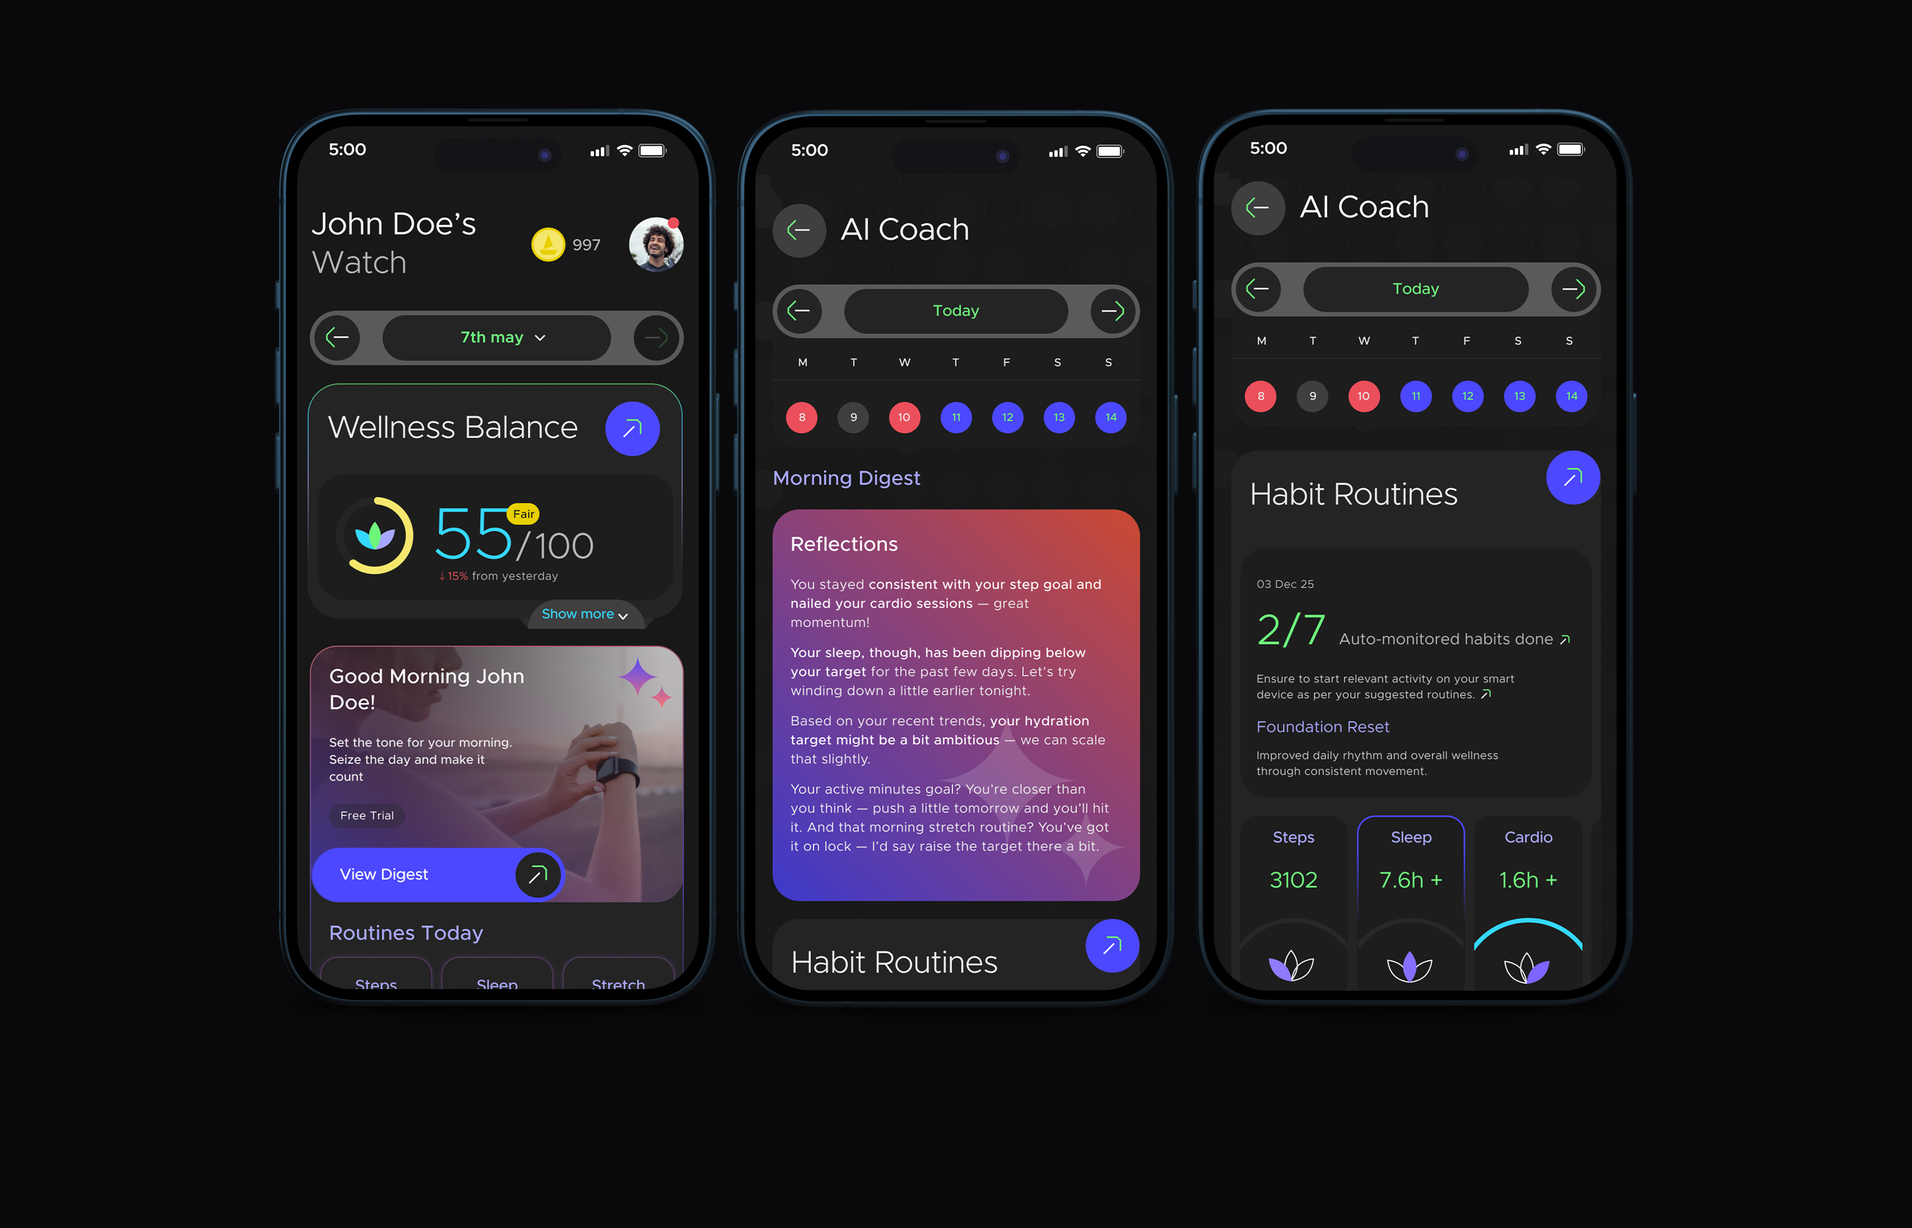
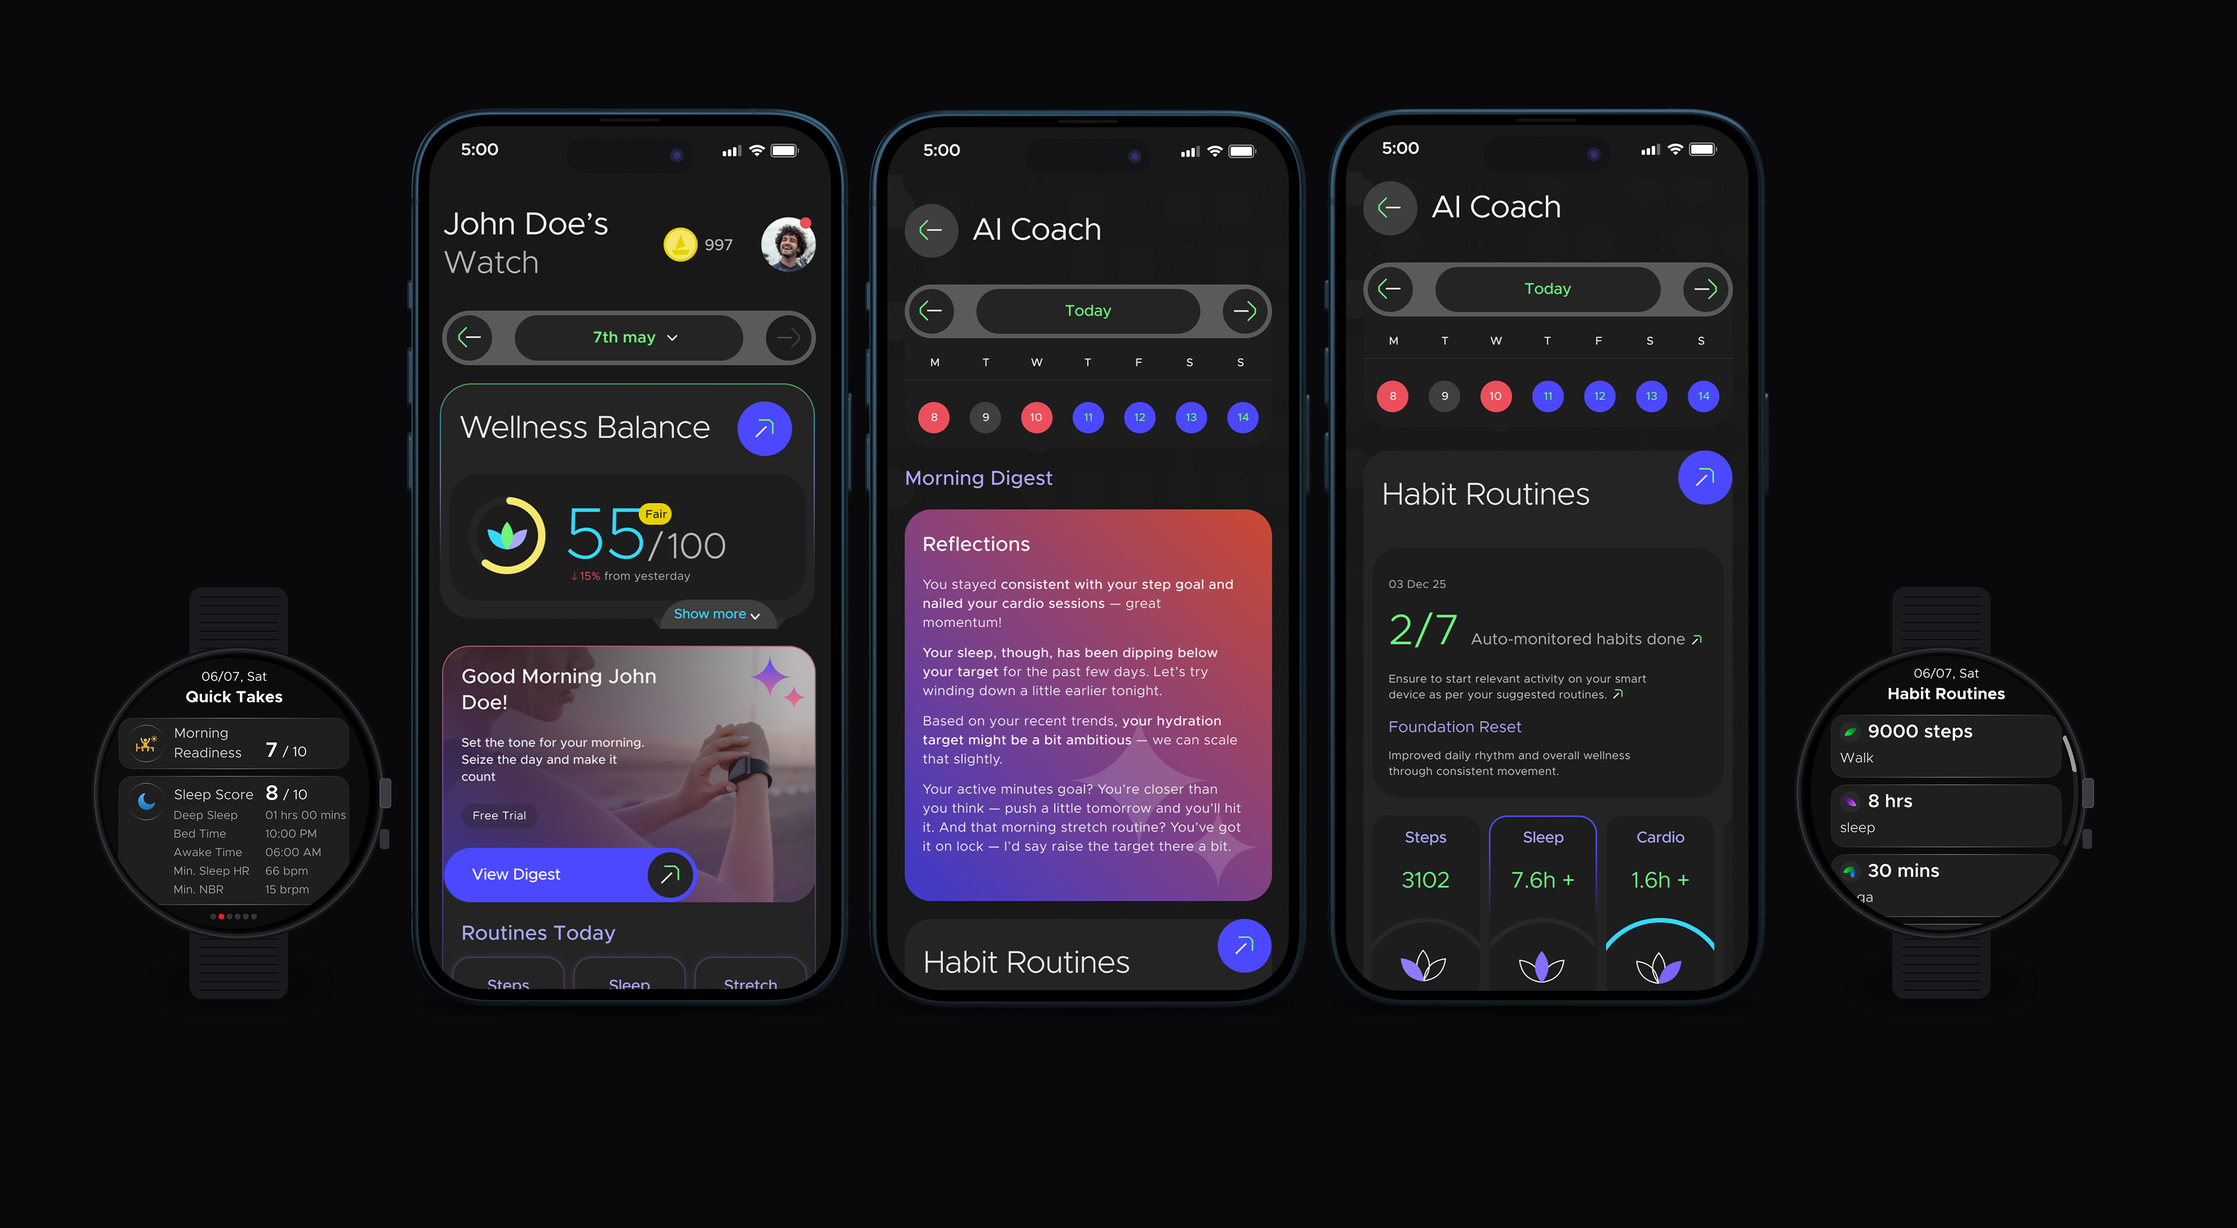
second commit

diff --git a/ai-coach.html b/ai-coach.html
@@ -1,9 +1,9 @@
 <!DOCTYPE html><html lang="en"><head><meta charset="UTF-8"><meta name="viewport" content="width=device-width,initial-scale=1"><title>AI Coach — Kamalika Bhattacharjee</title><link rel="stylesheet" href="styles.css"></head><body>
 <header class="nav"><a class="brand" href="index.html">KAMALIKA<span>.</span></a><nav><a href="index.html#work">Work</a><a href="index.html#about">About</a></nav></header><main>
-<section class="case-hero section"><div class="eyebrow">CASE STUDY · 01 · AI COACH · LIVE</div><h1>Helping users understand their wellness and <em>take action.</em></h1><p class="lead">AI Coach uses data from the wearable to give users simple guidance, habits and fitness plans.</p><div class="meta-grid"><div><span>ROLE</span><b>Product Designer<br>UX / UI · Interaction · Prototyping · QA</b></div><div><span>PLATFORM</span><b>Mobile App + Smartwatch</b></div><div><span>SCOPE</span><b>End-to-end feature experience</b></div><div><span>STATUS</span><b>Live</b></div></div></section>
+<section class="case-hero section"><div class="eyebrow">CASE STUDY · 01 · AI COACH · LIVE</div><h1>A personal coach built around your wearable data</h1><p class="lead">AI Coach uses data from the wearable to give users simple guidance, habits and fitness plans.</p><div class="meta-grid"><div><span>ROLE</span><b>Product Designer<br>UX / UI · Interaction · Prototyping · QA</b></div><div><span>PLATFORM</span><b>Mobile App + Smartwatch</b></div><div><span>SCOPE</span><b>End-to-end feature experience</b></div><div><span>STATUS</span><b>Live</b></div></div></section>
 <section class="case-image section"><img src="assets/ai-coach-case-hero.png" alt="AI Coach app screens — Morning Digest, Habit Routines, Wellness Balance and Wellness Score"></section>
 <section class="section narrative"><div class="label">01 · THE OPPORTUNITY</div><h2>Fitness Plans were useful, but they were not for everyone.</h2><p>We wanted to make the experience more personal and easier to start. Some users have a clear fitness goal. Others want to build better everyday habits.</p><p>So the experience was built around two simple ways to start:</p><div class="two-col big-cards"><div class="dark-card"><small>GOAL-BASED</small><h3>Fitness Plans</h3><p>For users who have a clear goal, such as getting fit, losing weight or training for a run.</p></div><div class="dark-card"><small>HABIT-BASED</small><h3>Habit Routines</h3><p>For users who want to build habits like sleeping better, moving more or reducing stress.</p></div></div></section>
-<section class="section"><div class="label">02 · THE BASIC IDEA</div><h2>Use the data to help users decide what to do next.</h2><p class="lead-small">The experience connects wearable data to a simple daily action.</p><div class="system-flow"><div><b>Wearable data</b><span>Steps · sleep · activity · vitals</span></div><i>→</i><div><b>Wellness Balance</b><span>Movement · Vitals · Restore</span></div><i>→</i><div><b>AI Coach</b><span>Guidance and reflections</span></div><i>→</i><div><b>Action</b><span>Habits · fitness plans</span></div></div></section>
+<section class="section"><div class="label">02 · THE BASIC IDEA</div><h2>Use the data to help users decide what to do next.</h2><p class="lead-small">The experience connects wearable data to a simple daily action.</p><div class="system-flow"><div><b>Wearable data</b><span>Steps · Sleep · Activity · Vitals</span></div><i>→</i><div><b>Wellness Balance</b><span>Movement · Vitals · Restore</span></div><i>→</i><div><b>AI Coach</b><span>Guidance and Reflections</span></div><i>→</i><div><b>Action</b><span>Habits · fitness plans</span></div></div></section>
 <section class="section"><div class="label">03 · HOW THE DESIGN CHANGED</div><h2>The feature changed as we worked through different ideas.</h2><p>We explored different ways to bring wellness guidance, routines, reflections and fitness plans together. The final version has a clearer entry point and a more structured daily experience.</p><div class="iteration-grid"><div><span>EARLY DIRECTION</span><img src="assets/ai-coach-iteration-early.png" alt="Early AI Coach direction"><b>Daily Wellness Coach</b><p>Explored daily guidance, Wellness Balance and “Ask Your Coach”.</p></div><div><span>MIDDLE DIRECTION</span><img src="assets/ai-coach-iteration-middle.png" alt="Middle AI Coach direction"><b>Habits and guidance</b><p>Added routines, reflections, streaks and scheduled coaching.</p></div><div class="full"><span>FINAL DIRECTION</span><img src="assets/ai-coach-iteration-final.png" alt="Final AI Coach direction"><b>AI Coach</b><p>Brought together Habit Routines, Fitness Plans, Wellness Balance and daily guidance.</p></div></div></section>
 <section class="section"><div class="label">04 · GETTING STARTED</div><h2>One coach, two ways to begin.</h2><p>The first step is choosing what the user wants help with.</p><div class="choice-flow"><div class="choice"><span>HABIT ROUTINES</span><strong>Build better everyday habits.</strong><p>Users choose goals such as sleeping better, reducing stress, improving stamina or becoming more active. The coach then suggests habits based on those goals.</p></div><div class="choice"><span>FITNESS PLANS</span><strong>Work towards a clear fitness goal.</strong><p>Users can choose goals such as getting fit, getting lean, losing weight or training for a marathon. A plan, such as a 7 km run plan, can then guide them.</p></div></div></section>
 <section class="section"><div class="label">05 · USER JOURNEY</div><h2>From setup to daily guidance.</h2><p class="lead-small">The journey takes users from discovering AI Coach to building a daily habit of checking in and taking action.</p><div class="journey-flow">
@@ -20,12 +20,12 @@
 <div class="journey-step"><span class="step-no">06</span><div class="step-icon"><svg viewBox="0 0 24 24"><polyline points="3,17 9,11 13,15 21,5"></polyline><polyline points="15,5 21,5 21,11"></polyline></svg></div><h3>Review &amp; improve</h3><p>Morning Digest and Sundown Recap help the user understand their day and what to focus on next.</p></div>
 </div><div class="journey-repeat"><span>↻ Repeat daily</span></div></section>
 <section class="section"><div class="label">06 · DESIGNING THE AI EXPERIENCE</div><h2>The AI needed clear rules to make the experience useful.</h2><p>My work was not about building the AI model. It was about deciding how the AI should appear and behave in the product.</p><div class="rule-grid"><div><b>Use the right data</b><span>Guidance should use relevant wellness and activity information.</span></div><div><b>Keep it short</b><span>Watch content should be quick to read. The app can show more detail.</span></div><div><b>Make it personal</b><span>Habits and guidance should match the user's goals and progress.</span></div><div><b>Keep it flexible</b><span>The content, tone and timing can change as the feature grows.</span></div></div></section>
-<section class="section"><div class="label">07 · HABIT ROUTINES</div><h2>Making everyday habits part of the wellness journey.</h2><p>Habit Routines connect small daily actions with the user's Wellness Balance. The experience shows the habits for the day, progress and streaks.</p><div class="routine-board"><div class="routine-head"><b>YOUR HABIT ROUTINES</b><span>Today · History</span></div><div class="routine"><strong>7,000 steps</strong><span>Add a walk after meals.</span><em>AUTO MONITORED · ON A STREAK</em></div><div class="routine"><strong>30 minutes of moderate cardio</strong><span>For example, brisk walking or cycling.</span><em>AUTO MONITORED · ON A STREAK</em></div><div class="routine"><strong>7.5+ hours of quality sleep</strong><span>Wind down an hour before bed.</span><em>AUTO MONITORED · ON A STREAK</em></div><div class="routine"><strong>Eat balanced meals</strong><span>A simple food habit users can self-report.</span><em>SELF MONITORED</em></div></div></section>
+<section class="section"><div class="label">07 · HABIT ROUTINES</div><h2>Making everyday habits part of the wellness journey.</h2><p>Habit Routines connect everyday actions to the user's Wellness Balance. Each habit shows which wellness pillars and metrics it can improve, helping users understand what to do and why it matters.</p><div class="routine-board"><div class="routine-head"><b>YOUR HABIT ROUTINES</b><span>Today · History</span></div><div class="routine"><strong>7,000 steps</strong><span>Add a walk after meals.</span><em>AUTO MONITORED · ON A STREAK</em></div><div class="routine"><strong>30 minutes of moderate cardio</strong><span>For example, brisk walking or cycling.</span><em>AUTO MONITORED · ON A STREAK</em></div><div class="routine"><strong>7.5+ hours of quality sleep</strong><span>Wind down an hour before bed.</span><em>AUTO MONITORED · ON A STREAK</em></div><div class="routine"><strong>Eat balanced meals</strong><span>A simple food habit users can self-report.</span><em>SELF MONITORED</em></div></div></section>
 <section class="section"><div class="label">08 · ONE IMPORTANT UX DECISION</div><h2>Not every habit needs a checkbox.</h2><p>Some habits can be measured by the device. Others cannot. We separated the two so users do not have to manually mark everything they do.</p><div class="two-col big-cards"><div class="dark-card"><small>AUTO MONITORED</small><h3>Let the device do the work.</h3><p>Steps, activity and sleep can be measured by the device. These habits can be used for streaks and rewards.</p></div><div class="dark-card"><small>SELF MONITORED</small><h3>Keep manual tracking simple.</h3><p>Habits such as eating balanced meals are not measured by the device, so users can update them when needed.</p></div></div><div class="principle">LESS MANUAL TRACKING <span>·</span> MORE USEFUL DEVICE DATA <span>·</span> LESS EFFORT FOR THE USER</div></section>
 <section class="section"><div class="label">09 · STREAKS AND REWARDS</div><h2>Make progress easy to see.</h2><p>The experience uses streaks, badges and boAt Coins to make regular progress feel rewarding.</p><div class="reward-grid"><div><b>Streaks</b><span>Show consistency over time.</span></div><div><b>Badges</b><span>Mark achievements and milestones.</span></div><div><b>boAt Coins</b><span>Add rewards to the experience.</span></div></div></section>
 <section class="section"><div class="label">10 · COACHING THROUGHOUT THE DAY</div><h2>The coach is useful at different times of the day.</h2><div class="timeline big"><div><b>MORNING</b><h3>Morning Digest</h3><p>A quick look at readiness for the day, based on sleep, readiness and recent activity.</p><span>Default time in the final design: 08:00 AM</span></div><div><b>THROUGHOUT THE DAY</b><h3>Coach Guidance</h3><p>Users can see their routines, plans, Wellness Balance and progress in the app.</p><span>App = more detail</span></div><div><b>EVENING</b><h3>Sundown Recap</h3><p>A short recap of the day, including progress, milestones and reflections.</p><span>Default time in the final design: 08:00 PM</span></div></div></section>
 <section class="section"><div class="label">11 · APP AND WATCH</div><h2>The app gives more detail. The watch gives quick updates.</h2><p>The watch focuses on short updates that can be understood at a glance. Morning Digest and Sundown Recap can be scheduled, with audio and haptic options explored in the designs.</p><div class="watch-grid"><div><b>Morning Digest</b><span>A quick look at readiness for the day.</span><small>6–11 AM selection in the product direction</small></div><div><b>Sundown Recap</b><span>A quick look back at the day.</span><small>6–11 PM selection in the product direction</small></div><div><b>Reflections</b><span>Short AI-generated reflections that can change over time.</span><small>Frequency and style can evolve</small></div></div></section>
-<section class="section"><div class="label">12 · FEATURED UX CHALLENGE · WELLNESS PERSONA</div><div class="persona-grid"><img src="assets/ai-coach-wellness-persona.png" alt="Wellness Persona screens"><div><h2>The score changes during the day. The persona should not.</h2><p>The Wellness Balance score can change as new data comes in. If the persona changed every time the score changed, it would not feel like a daily reward.</p><p><b>Solution:</b> During the day, the persona stays locked. After the day ends, the final score decides the persona for that day.</p><p>The concept explored animal personas such as Power Lion, Momentum Eagle, Dash Cheetah, Mellow Panda, Flow Dolphin, Snooze Bear, Serene Tortoise, Spark Hare and Zen Owl. The persona can also be used as a watch face.</p></div></div></section>
+<section class="section"><div class="label">12 · FEATURED UX CHALLENGE · WELLNESS PERSONA</div><div class="persona-grid"><img src="assets/ai-coach-wellness-persona.png" alt="Wellness Persona screens"><div><h2>The score changes during the day. The persona should not.</h2><p>The Wellness Balance score can change as new data comes in. If the persona changed every time the score changed, it would not feel like a daily reward.</p><p><b>Solution:</b> During the day, the persona stays locked. After the day ends, the final score decides the persona for that day.</p><p>The concept explored animal personas such as Power Lion, Snooze Bear, Zen Owl, and many more. The persona can also be used as a watch face.</p></div></div></section>
 <section class="section"><div class="label">13 · MY ROLE</div><h2>I worked across the full UI experience.</h2><p>I designed the AI Coach UI, worked with the team on UX decisions, explored different directions and checked the final UI before launch.</p><div class="role-grid"><div><b>UX</b><span>Worked on flows and interaction decisions with the team.</span></div><div><b>UI</b><span>Designed the app and watch-facing screens.</span></div><div><b>Prototyping</b><span>Used prototypes to explore and communicate the experience.</span></div><div><b>QA</b><span>Reviewed the UI before launch.</span></div></div></section>
-<section class="section"><div class="label">14 · OUTCOME</div><h2>AI Coach is live and continues to grow.</h2><p>The feature brings together wellness data, habits, fitness plans and daily guidance. It is also designed to support more coaching and monetisation experiences over time.</p><div class="outcome-box"><span>THE SIMPLE STORY</span><strong>Data → Guidance → Action</strong></div></section>
+<section class="section"><div class="label">14 · OUTCOME</div><h2>AI Coach is live and continues to grow.</h2><div class="outcome-box"><span>THE SIMPLE STORY</span><strong>Data → Guidance → Action</strong></div></section>
 <section class="section next-case"><a href="wellness-balance.html"><span>NEXT CASE STUDY</span><strong>Wellness Balance →</strong></a></section></main><footer>© 2026 Kamalika Bhattacharjee · <a href="index.html">Back to portfolio</a></footer><script src="animations.js"></script></body></html>

diff --git a/index.html b/index.html
@@ -1,13 +1,13 @@
-<!DOCTYPE html><html lang="en"><head><meta charset="UTF-8"><meta name="viewport" content="width=device-width,initial-scale=1"><title>Kamalika Bhattacharjee — Product Designer</title><link rel="stylesheet" href="styles.css"></head><body>
+<!DOCTYPE html><html lang="en"><head><meta charset="UTF-8"><meta name="viewport" content="width=device-width,initial-scale=1"><title>Kamalika Bhattacharjee — UI/UX Designer</title><link rel="stylesheet" href="styles.css"></head><body>
 <header class="nav"><a class="brand" href="index.html">KAMALIKA<span>.</span></a><nav><a href="#work">Work</a><a href="#about">About</a></nav><a class="nav-cta" href="#contact">Contact</a></header><main>
 
-<section class="hero hero-center section"><div class="eyebrow">PRODUCT DESIGNER · AI · WEARABLES · HEALTHTECH</div><h1>I design simple experiences<br>for <em>complex products.</em></h1><p class="hero-copy">5+ years designing mobile, wearable and AI-powered health experiences — used by 2 crore+ people across boAt, Titan, Timex, Helix and HMD.</p><div class="tags center"><span>Product Design</span><span>AI</span><span>UX / UI</span><span>Wearables</span></div></section>
+<section class="hero hero-center section"><div class="eyebrow">PRODUCT DESIGNER · AI · WEARABLES · HEALTHTECH</div><h1>I design simple experiences<br>for <em>complex products.</em></h1><p class="hero-copy">5+ years designing mobile, wearable and AI-powered health experiences that make complex data simple and easy to understand.</p><div class="tags center"><span>Product Design</span><span>AI</span><span>UX / UI</span><span>Wearables</span></div></section>
 
 <div id="work"></div>
 
 <div class="project-band tint">
 <section class="section project-fold">
-<div class="story-head"><div class="project-meta">01 · AI COACH · LIVE</div><h2>Helping users understand their wellness<br>and decide what to do next.</h2><p>AI Coach brings together wellness data, habits, fitness plans and daily guidance in one experience.</p></div>
+<div class="story-head"><div class="project-meta">01 · AI COACH · LIVE</div><h2>A personal coach built around your wearable data</h2><p>AI Coach brings together wellness data, habits, fitness plans and daily guidance in one experience.</p></div>
 <a class="story-image" href="ai-coach.html"><img src="assets/home-ai-coach-preview.png" alt="AI Coach app screens — Morning Digest, Habit Routines, Wellness Balance and Wellness Score"><span class="case-link">Read full case study ↗</span></a>
 </section>
 </div>
@@ -21,4 +21,4 @@
 
 <section id="about" class="section about"><div class="section-label">ABOUT</div><h2>Product designer crafting AI and wearable health experiences.</h2><p>I have 5+ years designing mobile, wearable and AI-powered products in the health and wellness space at KaHa Technologies (a boAt Lifestyle company) — delivering 600+ screens across 20+ features, including AI Coach, GPS and Wellness Balance, for products used by 2 crore+ people. My work spans user research, interaction design, prototyping, usability testing and design systems, and includes contributing to Watchface Studio, now a filed Indian patent.</p><div class="about-grid"><div><span>EXPERIENCE</span><b>5+ years</b></div><div><span>USERS REACHED</span><b>2 Cr+</b></div><div><span>FOCUS</span><b>AI · Wearables · HealthTech</b></div><div><span>TOOLS</span><b>Figma · Sketch · Prototyping</b></div></div></section>
 <section id="contact" class="section contact"><div class="section-label">CONTACT</div><h2>Let's talk.</h2><p>I'm open to product design opportunities and conversations about design.</p><a class="email" href="mailto:kamalika005@gmail.com">kamalika005@gmail.com ↗</a></section>
-</main><footer>© 2026 Kamalika Bhattacharjee · Product Designer</footer><script src="animations.js"></script></body></html>
+</main><footer>© 2026 Kamalika Bhattacharjee · UI/UX Designer</footer><script src="animations.js"></script></body></html>
